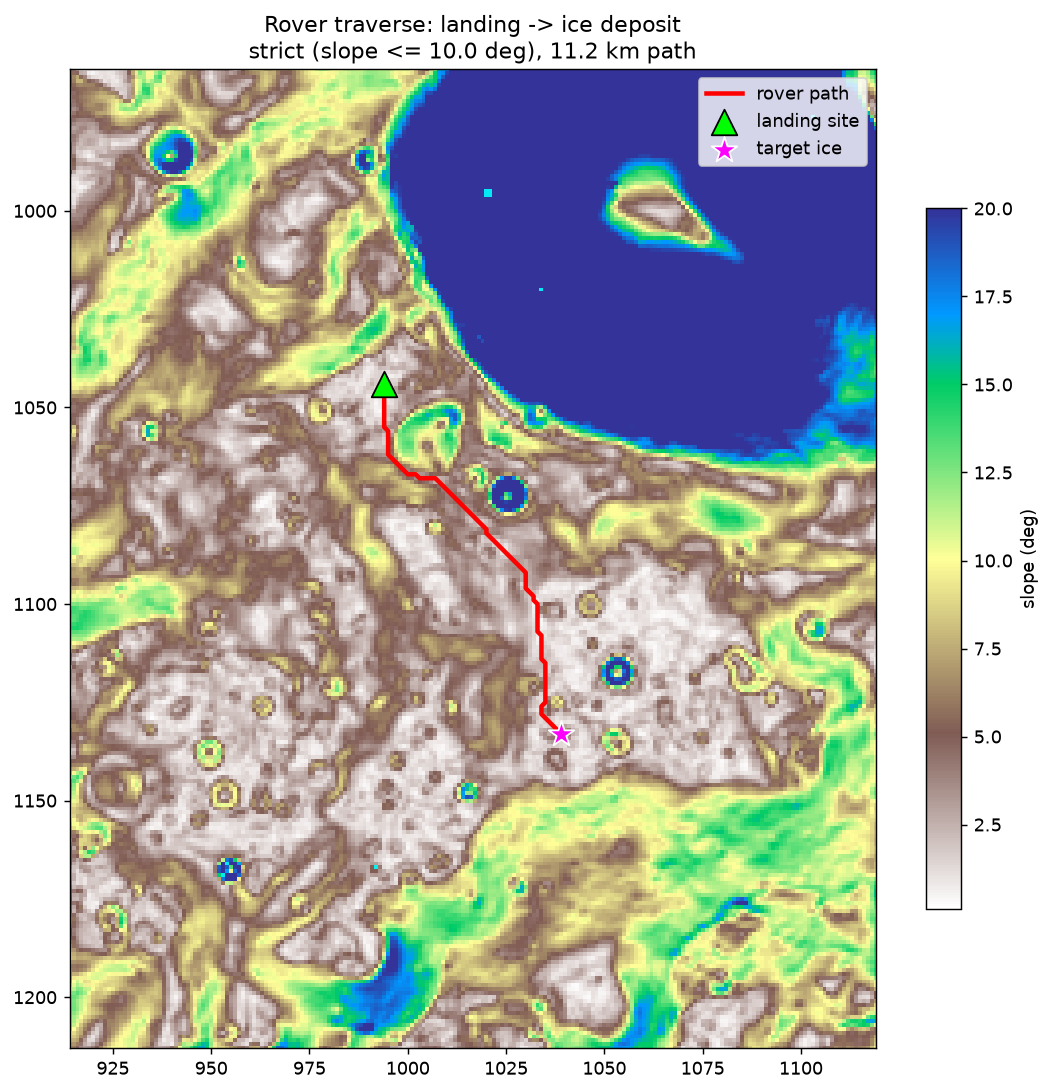
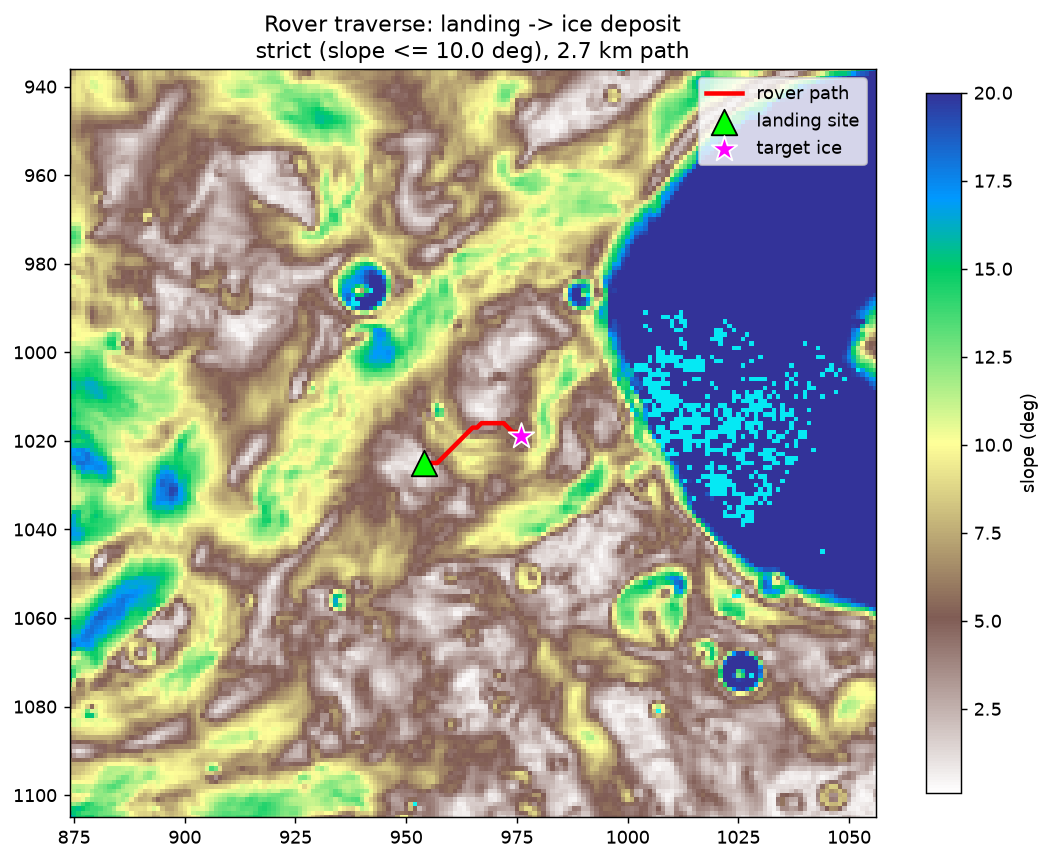
Rover v2: 2.70km A* path on validated ice mask, max 9.2deg slope

diff --git a/src/rover_path.py b/src/rover_path.py
@@ -27,7 +27,7 @@ TARGET_DIST_KM = 5.0      # desired landing distance from ice cluster
 # ============================================================
 # 1. Load ice grid (downsampled)
 # ============================================================
-with rasterio.open("data/processed/ice_in_psr.tif") as src:
+with rasterio.open("data/processed/ice_cpr_psr.tif") as src:
     H0, W0 = src.height, src.width
     H, W = H0 // DOWNSAMPLE, W0 // DOWNSAMPLE
     ice = src.read(1, out_shape=(H, W), resampling=RS.nearest)
@@ -171,6 +171,16 @@ else:
     print(f"Detour factor: {path_km/straight:.2f}x")
     print(f"Max slope on path: {np.nanmax(ps):.1f} deg")
     print(f"Mean slope on path: {np.nanmean(ps):.1f} deg")
+
+    # --- Push results to the dashboard ---
+    import dash_io
+    dash_io.update("rover", {
+        "path_km": round(float(path_km), 2),
+        "straight_km": round(float(straight), 2),
+        "detour": round(float(path_km / straight), 2),
+        "max_slope_deg": round(float(np.nanmax(ps)), 1),
+        "limit_slope_deg": MAX_SLOPE_DEG,
+    })
 
 # ============================================================
 # 7. Figure
